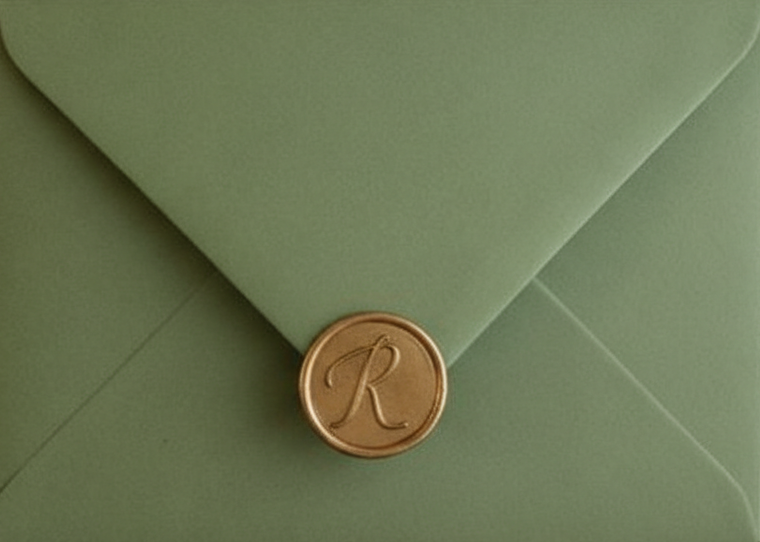
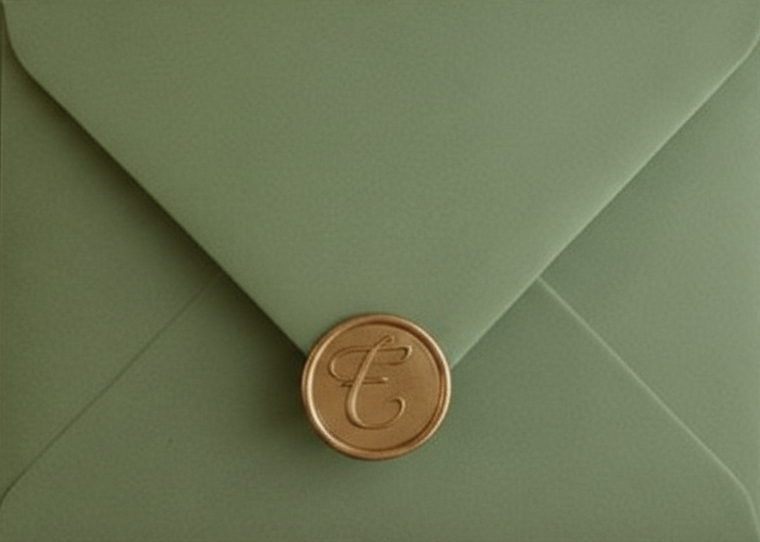
Redesign footer with olive background, seal image, custom quote and credits

diff --git a/src/components/Footer.jsx b/src/components/Footer.jsx
@@ -5,7 +5,7 @@ const Footer = ({ initials = "CP" }) => {
   const currentYear = new Date().getFullYear();
 
   return (
-    <footer className="py-12 px-4 bg-gradient-to-br from-primary-900 to-pink-900 text-white relative overflow-hidden">
+    <footer className="py-12 px-4 bg-[#7f8c6c] text-white relative overflow-hidden">
       {/* Decorative elements */}
       <div className="absolute inset-0 opacity-10">
         <div
@@ -25,28 +25,30 @@ const Footer = ({ initials = "CP" }) => {
           viewport={{ once: true }}
           transition={{ duration: 0.6 }}
         >
-          {/* Initials in elegant circle */}
+          {/* Sello Image instead of Initials */}
           <motion.div
             initial={{ scale: 0 }}
             whileInView={{ scale: 1 }}
             viewport={{ once: true }}
             transition={{ delay: 0.2, type: "spring", stiffness: 200 }}
-            className="w-20 h-20 mx-auto mb-6 rounded-full bg-gradient-to-br from-gold-400 to-gold-600 flex items-center justify-center shadow-2xl"
+            className="w-24 h-24 mx-auto mb-0 flex items-center justify-center filter drop-shadow-xl"
           >
-            <span className="font-serif text-3xl font-bold text-white">
-              {initials}
-            </span>
+            <img
+              src="/images/sello.png"
+              alt="Sello"
+              className="w-full h-full object-contain"
+            />
           </motion.div>
 
-          {/* Message */}
+          {/* New Funny Quote */}
           <motion.p
             initial={{ opacity: 0 }}
             whileInView={{ opacity: 1 }}
             viewport={{ once: true }}
             transition={{ delay: 0.4, duration: 0.6 }}
-            className="text-lg md:text-xl font-light mb-4 text-white/90"
+            className="font-serif text-lg md:text-xl font-medium mb-2 text-white italic max-w-lg mx-auto"
           >
-            Gracias por ser parte de este momento especial
+            "Prometo declarar impuestos... pero primero celebro mi grado"
           </motion.p>
 
           {/* Divider */}
@@ -54,33 +56,36 @@ const Footer = ({ initials = "CP" }) => {
             initial={{ scaleX: 0 }}
             whileInView={{ scaleX: 1 }}
             viewport={{ once: true }}
-            transition={{ delay: 0.6, duration: 0.8 }}
-            className="w-24 h-0.5 bg-white/30 mx-auto my-6"
+            transition={{ delay: 0.5, duration: 0.8 }}
+            className="w-16 h-0.5 bg-white/40 mx-auto my-4"
           ></motion.div>
 
-          {/* Made with love */}
+          {/* Gratitude & Signature */}
+          <motion.div
+            initial={{ opacity: 0 }}
+            whileInView={{ opacity: 1 }}
+            viewport={{ once: true }}
+            transition={{ delay: 0.6, duration: 0.6 }}
+            className="text-base md:text-lg font-light mb-8 text-white/90 font-serif"
+          >
+            <p className="mb-2">
+              Gracias por ser parte de este momento especial.
+            </p>
+            <p className="font-script text-2xl mt-4">
+              Atte. Emilia Rosa Guzman Julio
+            </p>
+          </motion.div>
+
+          {/* Developer Credit */}
           <motion.div
             initial={{ opacity: 0 }}
             whileInView={{ opacity: 1 }}
             viewport={{ once: true }}
             transition={{ delay: 0.8, duration: 0.6 }}
-            className="flex items-center justify-center gap-2 text-sm text-white/70"
+            className="text-xs text-white/60 font-sans tracking-wider uppercase border-t border-white/20 pt-6 mt-6"
           >
-            <span>Hecho con</span>
-            <Heart className="w-4 h-4 fill-red-400 text-red-400 animate-pulse" />
-            <span>• {currentYear}</span>
+            Diseñado y desarrollado por: Leandro Quipildor
           </motion.div>
-
-          {/* Quote */}
-          <motion.p
-            initial={{ opacity: 0 }}
-            whileInView={{ opacity: 1 }}
-            viewport={{ once: true }}
-            transition={{ delay: 1, duration: 0.6 }}
-            className="mt-6 text-sm italic text-white/60 max-w-md mx-auto"
-          >
-            "El éxito es la suma de pequeños esfuerzos repetidos día tras día"
-          </motion.p>
         </motion.div>
       </div>
     </footer>
